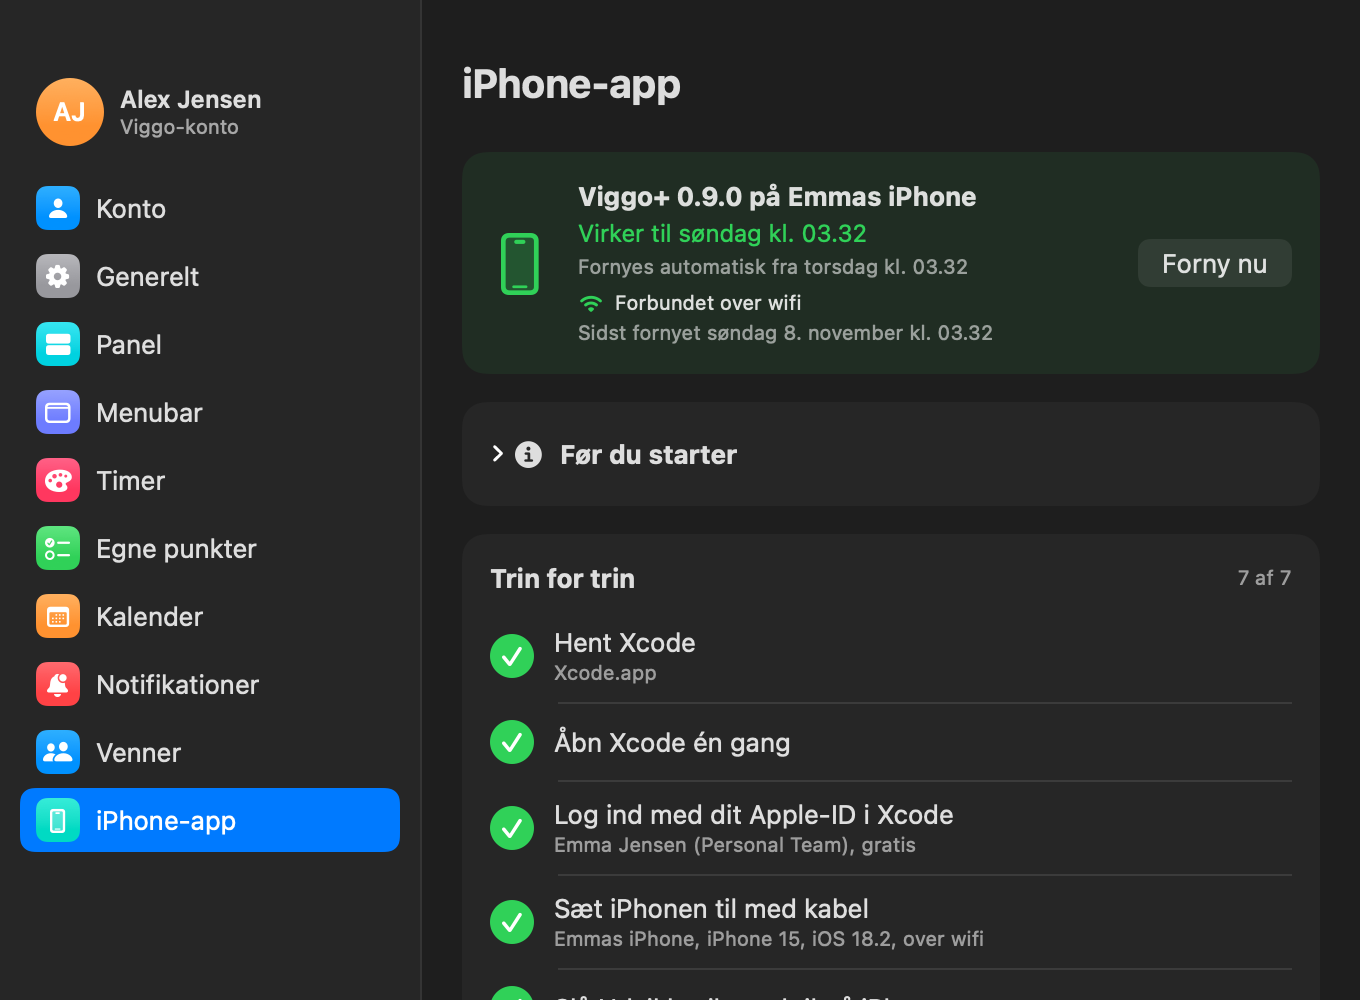
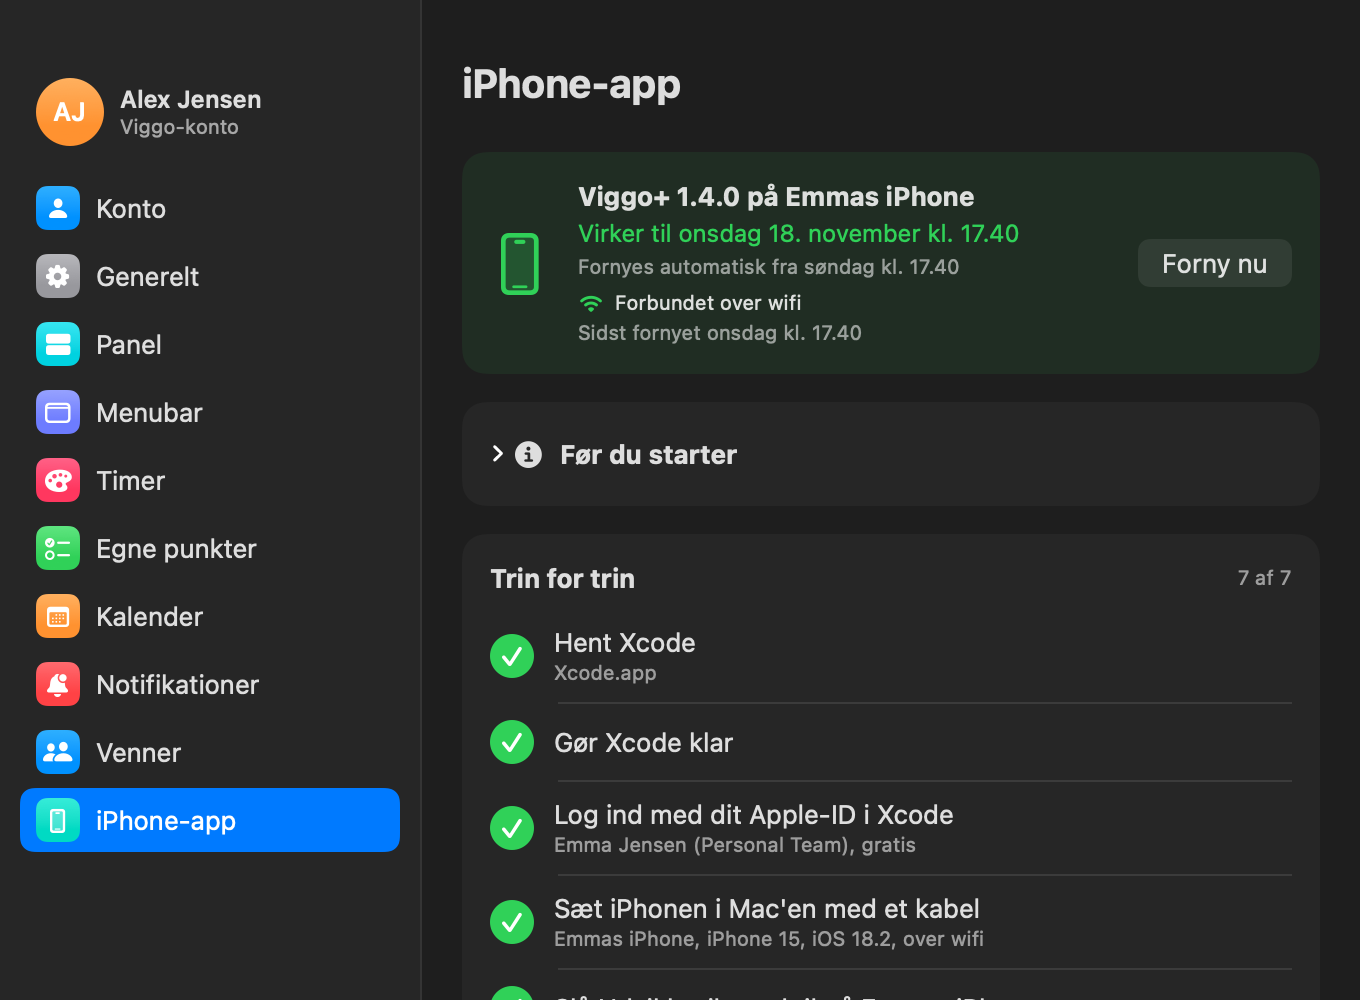
Nemmere guide til iPhone-appen og flere iPhones (1.15.0)
Viggo+ åbner selv Xcode når det skal bruges og holder det åbent i
baggrunden, så Udviklertilstand dukker op. Trinene er forklaret med korte
punkter, og installationen starter af sig selv efter trin 5.

diff --git a/Sources/PhoneTab.swift b/Sources/PhoneTab.swift
@@ -20,40 +20,74 @@ struct PhoneTab: View {
     private var steps: [Step] {
         let d = inst.device
         let rec = d.flatMap { inst.records[$0.id] }
-        let openXcode: (String, () -> Void) = ("Åbn Xcode", { if let x = inst.xcodeApp { NSWorkspace.shared.open(x) } })
+        let phone = d?.name ?? "iPhonen"
+        let openXcode: (String, () -> Void) = ("Åbn Xcode", { inst.openXcode() })
         return [
             Step(id: 1, title: "Hent Xcode", time: "20 til 60 min",
                  done: inst.xcodeApp != nil,
-                 detail: "Xcode er Apples gratis program til at lave apps. Viggo+ bruger det til at bygge iPhone-appen og signere den med dit Apple-ID. Det fylder ca. 15 GB, så det meste af tiden er ventetid på download. Du skal ikke selv bruge Xcode bagefter.",
+                 detail: "Xcode er et gratis program fra Apple. Viggo+ bruger det til at lave iPhone-appen, så du skal ikke selv bruge det.\n\nTryk Åbn App Store, og tryk Hent. Det fylder ca. 15 GB, så det tager et stykke tid. Denne side opdager selv, når det er hentet.",
                  doneNote: inst.xcodeApp?.lastPathComponent,
                  actions: [("Åbn App Store", { NSWorkspace.shared.open(URL(string: "macappstore://apps.apple.com/app/xcode/id497799835")!) })]),
-            Step(id: 2, title: "Åbn Xcode én gang", time: "5 til 15 min",
+            Step(id: 2, title: "Gør Xcode klar", time: "5 til 15 min",
                  done: inst.firstLaunchDone && inst.iosPlatform,
                  detail: inst.firstLaunchDone && !inst.iosPlatform
-                    ? "Xcode mangler iOS-delen. Gå til Xcode > Indstillinger > Components, og tryk Get ud for iOS. Den er på nogle GB."
-                    : "Åbn Xcode, accepter licensen, og sæt flueben ved iOS når den spørger hvilke platforme du vil have. Den henter så det sidste. Luk Xcode bagefter.",
+                    ? "Xcode mangler det, der skal til for at lave iPhone-apps.\n\n1. Klik på Xcode i menulinjen øverst, og vælg Settings.\n2. Vælg Components.\n3. Tryk Get ud for iOS, og vent til den er færdig."
+                    : "Viggo+ har åbnet Xcode for dig.\n\n1. Tryk Agree, og skriv din Mac-kode hvis den spørger.\n2. Sæt flueben ved iOS, og tryk Download & Install.\n3. Vent til den er færdig. Du kan lade Xcode være åben.",
                  actions: [openXcode]),
             Step(id: 3, title: "Log ind med dit Apple-ID i Xcode", time: "2 min",
                  done: inst.team != nil,
-                 detail: "I Xcode: Xcode > Indstillinger > Apple Accounts > + > Apple Account, og log ind. Et almindeligt gratis Apple-ID er nok, det koster ingenting.",
+                 detail: "Appen bliver lavet med dit Apple-ID. Det almindelige gratis Apple-ID er nok.\n\n1. Klik på Xcode i menulinjen øverst, og vælg Settings.\n2. Vælg Apple Accounts.\n3. Tryk + nederst til venstre, og vælg Apple Account.\n4. Log ind med dit Apple-ID.",
                  doneNote: inst.team.map { $0.free ? "\($0.name), gratis" : $0.name },
                  actions: [openXcode]),
-            Step(id: 4, title: "Sæt iPhonen til med kabel", time: "1 min",
+            Step(id: 4, title: "Sæt iPhonen i Mac'en med et kabel", time: "1 min",
                  done: d.map { $0.paired && $0.reachable } ?? false,
-                 detail: "Brug et USB-kabel og lås iPhonen op. Når den spørger \"Stol på denne computer?\", tryk Stol på og skriv din kode. Kablet skal kun bruges første gang; derefter kan Mac'en finde den på samme wifi.",
+                 detail: "1. Sæt iPhonen i Mac'en med et USB-kabel.\n2. Lås iPhonen op.\n3. Spørger den \"Stol på denne computer?\", så tryk Stol på og skriv din kode.\n\nKablet skal kun bruges første gang. Derefter finder Mac'en den på samme wifi.",
                  doneNote: d.map { "\($0.name), \($0.model), iOS \($0.os), \($0.wired ? "med kabel" : "over wifi")" }),
-            Step(id: 5, title: "Slå Udviklertilstand til på iPhonen", time: "3 min",
+            Step(id: 5, title: "Slå Udviklertilstand til på \(phone)", time: "3 min",
                  done: d?.developerMode == true,
-                 detail: "På iPhonen: Indstillinger > Anonymitet og sikkerhed > Udviklertilstand (helt nederst) > slå til. iPhonen genstarter. Tryk Slå til når den er tændt igen, og skriv din kode. Menuen dukker først op efter iPhonen har været sat til en Mac med Xcode, så gør trin 4 først."),
+                 detail: "Det er en indstilling, der tillader apps, som ikke kommer fra App Store.\n\nPå iPhonen:\n1. Åbn Indstillinger.\n2. Tryk Anonymitet og sikkerhed.\n3. Rul helt ned, og tryk Udviklertilstand.\n4. Slå den til, og tryk Genstart.\n5. Når iPhonen er tændt igen, tryk Slå til og skriv din kode.\n\nKan du ikke finde Udviklertilstand? Tag kablet ud og sæt det i igen, mens Xcode er åben. Så dukker den op.",
+                 actions: [openXcode]),
             Step(id: 6, title: "Installer Viggo+", time: "2 til 5 min første gang",
                  done: rec != nil,
-                 detail: "Mac'en bygger appen, signerer den med dit Apple-ID og lægger den på iPhonen. Hold iPhonen ulåst imens.",
+                 detail: "Mac'en laver nu appen og lægger den på \(phone). Det starter af sig selv. Hold iPhonen låst op og i kablet imens.",
                  doneNote: rec.map { "Version \($0.version)" }),
-            Step(id: 7, title: "Stol på dit Apple-ID på iPhonen", time: "1 min",
+            Step(id: 7, title: "Godkend dit Apple-ID på iPhonen", time: "1 min",
                  done: rec?.trusted == true,
-                 detail: "Kun første gang. På iPhonen: Indstillinger > Generelt > VPN og enhedsadministration > \(inst.signer ?? "Apple Development: din e-mail") > Stol på. Tryk så på knappen her, så åbner Viggo+ på iPhonen.",
+                 detail: "Kun første gang. iPhonen skal godkende, at appen er lavet med dit Apple-ID.\n\nPå iPhonen:\n1. Åbn Indstillinger > Generelt > VPN og enhedsadministration.\n2. Tryk på \(inst.signer ?? "Apple Development: din e-mail").\n3. Tryk Stol på.\n\nTryk så på knappen herunder, så åbner Viggo+ på iPhonen.",
                  actions: d.map { dev in [("Åbn Viggo+ på iPhonen", { Task { await inst.launch(dev) } })] } ?? []),
         ]
+    }
+
+    /// Steps Xcode has already been opened for on this visit, so closing it doesn't make it pop up again.
+    @State private var openedFor: Set<Int> = []
+    /// Phones that got to step 6 by going through the guide here: their install starts by itself.
+    @State private var walked: Set<String> = []
+    @State private var autoStarted: Set<String> = []
+
+    /// Does for you what the current step would otherwise ask: opens Xcode, and starts the install.
+    private func helpWithCurrentStep() {
+        guard inst.job == nil, let current = steps.first(where: { !$0.done })?.id else { return }
+        switch current {
+        case 2, 3:
+            // You have to click in Xcode for these two, so it comes to the front.
+            if !openedFor.contains(current), !inst.xcodeRunning {
+                openedFor.insert(current)
+                inst.openXcode()
+            }
+        case 4, 5:
+            if let d = inst.device { walked.insert(d.id) }
+            // While Xcode runs with the phone plugged in, the Udviklertilstand menu shows up on the phone.
+            if current == 5, inst.device?.reachable == true, !inst.xcodeRunning, !openedFor.contains(5) {
+                openedFor.insert(5)
+                inst.openXcode(inBackground: true)
+            }
+        case 6:
+            if let d = inst.device, d.reachable, walked.contains(d.id), !autoStarted.contains(d.id) {
+                autoStarted.insert(d.id)
+                Task { await inst.install(d) }
+            }
+        default: break
+        }
     }
 
     var body: some View {
@@ -83,7 +117,10 @@ struct PhoneTab: View {
             if DocRenderer.outDir != nil { return }
             // Look again every few seconds, so the steps tick off while you work through them.
             while !Task.isCancelled {
-                if inst.job == nil { await inst.refresh() }
+                if inst.job == nil {
+                    await inst.refresh()
+                    helpWithCurrentStep()
+                }
                 try? await Task.sleep(for: .seconds(4))
             }
         }

diff --git a/Sources/PhoneInstaller.swift b/Sources/PhoneInstaller.swift
@@ -131,6 +131,19 @@ import Foundation
         checked = true
     }
 
+    var xcodeRunning: Bool {
+        !NSRunningApplication.runningApplications(withBundleIdentifier: "com.apple.dt.Xcode").isEmpty
+    }
+
+    /// Opens Xcode. In the background it only has to run, so the phone shows its Udviklertilstand menu.
+    func openXcode(inBackground: Bool = false) {
+        guard let xcodeApp else { return }
+        let c = NSWorkspace.OpenConfiguration()
+        c.activates = !inBackground
+        c.hides = inBackground
+        NSWorkspace.shared.openApplication(at: xcodeApp, configuration: c)
+    }
+
     static func findXcode() -> URL? {
         let fm = FileManager.default
         if let p = try? Shell.runSync("/usr/bin/xcode-select", ["-p"]),

diff --git a/README.md b/README.md
@@ -162,14 +162,18 @@ Der er også en iPhone-app i `iOS/`, med samme kode som Mac-appen (mappen `Share
 Den er ikke i App Store, men Viggo+ på Mac'en kan lægge den på din iPhone. Åbn **Indstillinger > iPhone-app** i Mac-appen. Der står hvad du skal bruge og hvor lang tid det tager, og en guide der krydser trinene af efterhånden:
 
 1. Hent Xcode fra App Store (gratis, ca. 15 GB, 20 til 60 min).
-2. Åbn Xcode én gang og vælg iOS (5 til 15 min).
+2. Gør Xcode klar: Viggo+ åbner Xcode for dig, og du trykker Agree og vælger iOS (5 til 15 min).
 3. Log ind med dit Apple-ID under **Xcode > Indstillinger > Apple Accounts**. Et gratis Apple-ID er nok.
 4. Sæt iPhonen til med kabel, lås den op og tryk **Stol på**.
 5. Slå **Udviklertilstand** til under **Indstillinger > Anonymitet og sikkerhed** på iPhonen.
-6. Tryk **Installer** i Viggo+ (2 til 5 min første gang).
+6. Viggo+ installerer appen af sig selv, når trin 5 er klaret (2 til 5 min første gang).
 7. Første gang: stol på dit Apple-ID under **Indstillinger > Generelt > VPN og enhedsadministration** på iPhonen.
 
-Dit login (og dine venner) sendes med fra Mac'en, så iPhone-appen er logget ind med det samme. Det kan slås fra, og der er en knap til at sende det igen.
+Hvert trin har en kort forklaring trin for trin, og Viggo+ åbner selv Xcode, når det skal bruges. Mens Xcode kører med iPhonen sat til, dukker Udviklertilstand op på iPhonen.
+
+Dit login (og dine venner) sendes med fra Mac'en til din første iPhone, så iPhone-appen er logget ind med det samme. Det kan slås fra, og der er en knap til at sende det igen.
+
+**Flere iPhones**: sæt en iPhone mere til, så starter guiden forfra for den, og trin 1 til 3 er allerede klaret. Siden viser et kort for hver iPhone, og alle bliver fornyet. Til en iPhone mere sendes dit login kun, hvis du trykker **Overfør login nu**, så den anden kan logge ind med sin egen konto.
 
 Med et gratis Apple-ID virker appen 7 dage ad gangen og på højst 3 iPhones. Viggo+ fornyer den selv, når der er under 3 dage tilbage og iPhonen er på samme wifi som Mac'en eller sat til med kabel. Kablet skal kun bruges første gang. Det tager under et minut, iPhonen må gerne være låst, og dine data bliver liggende.
 

diff --git a/CHANGELOG.md b/CHANGELOG.md
@@ -1,5 +1,10 @@
 # Ændringer
 
+## 1.15.0 (2026-11-13)
+
+- **iPhone-appen på flere iPhones**: sæt en iPhone mere til Mac'en, så vælger Indstillinger > iPhone-app den selv og starter guiden for den. Er der flere, kan du skifte i en menu. Hver iPhone med Viggo+ får sit eget kort med Forny nu og Glem, og de bliver alle fornyet og opdateret automatisk. Dit login sendes kun selv med til din første iPhone. Til de andre sendes det, når du trykker Overfør login nu.
+- **Nemmere guide**: hvert trin forklares med korte nummererede punkter. Viggo+ åbner selv Xcode, når du skal bruge det, og holder det åbent i baggrunden, så Udviklertilstand dukker op på iPhonen. Når Udviklertilstand er slået til, går installationen i gang af sig selv.
+
 ## 1.14.0 og iPhone-app 1.4.0 (2026-11-13)
 
 - **iPhone-appen opdaterer sig selv**: når Viggo+ på Mac'en har en nyere iPhone-app, lægger den den på iPhonen med det samme, så snart iPhonen er på samme wifi eller sat til med kabel. Den venter ikke længere på den næste fornyelse, og den kigger hvert 5. minut så længe en ny version venter. Du får en besked når den er lagt på.
